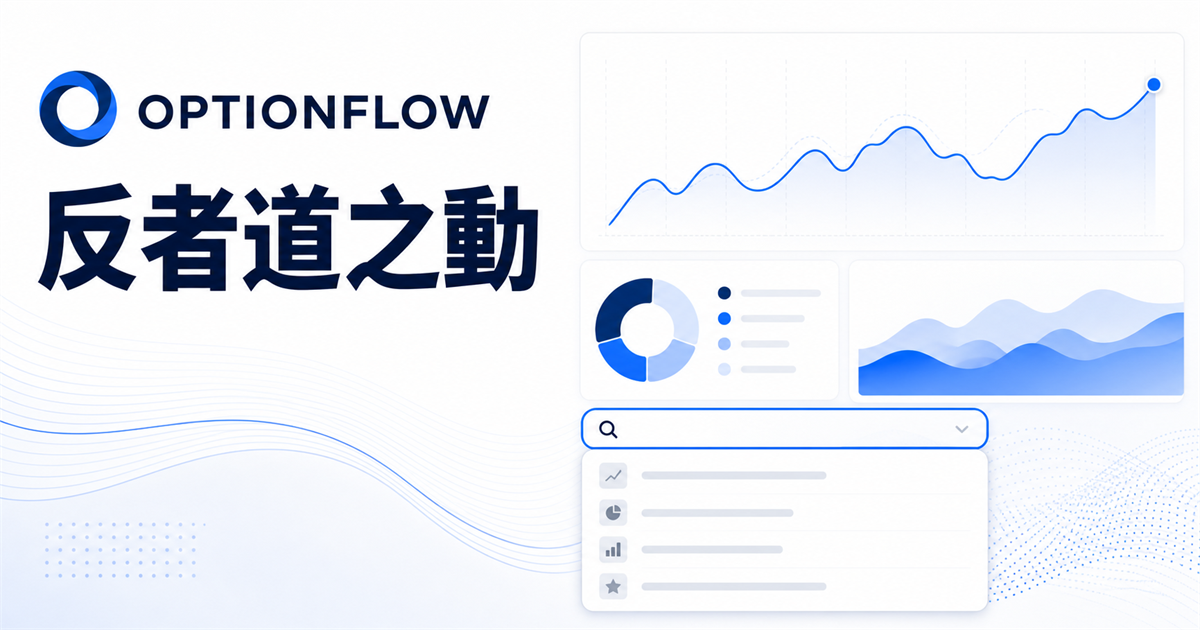
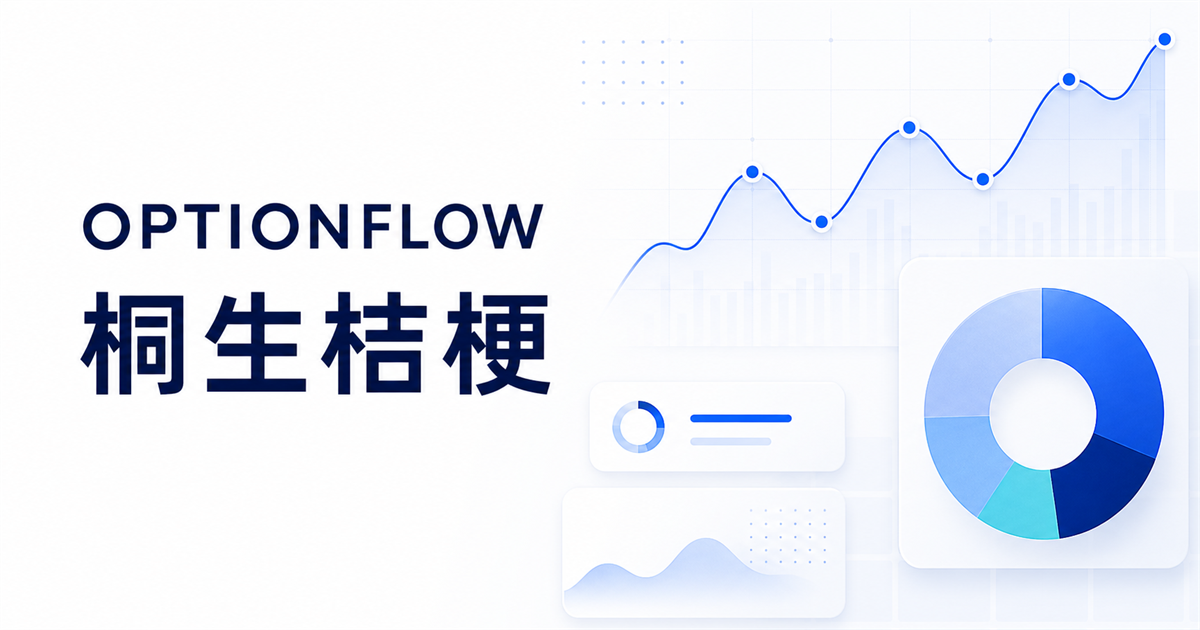
Add graphical holdings view and Kikyo branding

diff --git a/app/globals.css b/app/globals.css
@@ -16,7 +16,7 @@
 
 * { box-sizing: border-box; }
 html { scroll-behavior: smooth; }
-body { margin: 0; color: var(--ink); background: var(--canvas); font-family: Inter, ui-sans-serif, system-ui, -apple-system, BlinkMacSystemFont, "Segoe UI", sans-serif; }
+body { margin: 0; color: var(--ink); background: var(--canvas); font-family: Helvetica, "Helvetica Neue", Arial, sans-serif; }
 button, input, select, textarea { font: inherit; }
 button, a { -webkit-tap-highlight-color: transparent; }
 button:focus-visible, a:focus-visible, input:focus-visible, select:focus-visible, textarea:focus-visible { outline: 3px solid rgba(47,115,237,.22); outline-offset: 2px; }
@@ -70,6 +70,11 @@ button:focus-visible, a:focus-visible, input:focus-visible, select:focus-visible
 
 .positions-panel { padding: 0; overflow: hidden; }.positions-panel h2 { font-size: 22px; }.positions-toolbar { display: flex; justify-content: space-between; align-items: center; gap: 20px; padding: 27px 28px 20px; }.toolbar-actions { display: flex; align-items: center; gap: 10px; }.search { width: min(390px, 34vw); min-height: 43px; display: flex; align-items: center; gap: 9px; background: #f8fafc; border: 1px solid #dfe6f0; border-radius: 11px; padding: 0 13px; color: #8a98ac; }.search input { width: 100%; border: 0; outline: 0; background: transparent; color: var(--ink); padding: 11px 0; font-size: 13px; }.search input::placeholder { color: #9ca9bb; }
 .filter-row { display: flex; gap: 6px; padding: 0 28px 17px; overflow-x: auto; }.filter-row button { display: inline-flex; align-items: center; gap: 8px; white-space: nowrap; color: #71809a; background: transparent; border-radius: 9px; padding: 9px 12px; font-size: 12px; font-weight: 750; }.filter-row button span { min-width: 21px; padding: 3px 6px; border-radius: 999px; background: #eef1f5; color: #7d8ba0; font-size: 10px; }.filter-row button.active { color: #235fc8; background: var(--blue-soft); }.filter-row button.active span { background: #dce9ff; color: #235fc8; }
+.view-switch { flex: 0 0 auto; display: flex; padding: 4px; background: #f1f4f8; border-radius: 10px; }.view-switch button { min-height: 34px; padding: 0 11px; color: #71809a; background: transparent; border: 0; border-radius: 8px; cursor: pointer; font-size: 11px; font-weight: 800; }.view-switch button.active { color: #205fc9; background: white; box-shadow: 0 3px 10px rgba(20,45,82,.1); }
+.visual-positions { overflow-x: auto; border-top: 1px solid var(--line); background: white; scrollbar-color: #b5c0cf #f3f5f8; }.visual-head, .visual-position-row { min-width: 1180px; display: grid; grid-template-columns: 45px minmax(230px, 1.45fr) minmax(150px, .85fr) minmax(225px, 1.15fr) minmax(165px, .9fr) minmax(150px, .8fr) 38px; align-items: center; column-gap: 18px; }.visual-head { min-height: 44px; padding: 0 25px; color: #8090a8; background: #f7f9fd; border-bottom: 1px solid #e9edf4; font-size: 9px; font-weight: 850; letter-spacing: .09em; text-transform: uppercase; }.visual-position-row { min-height: 112px; margin: 0; padding: 17px 25px; border-bottom: 1px solid #e8edf4; background: white; transition: background .18s ease, transform .18s ease; }.visual-position-row:hover { background: linear-gradient(90deg, #fff, #f8fbff); }.visual-position-row:last-child { border-bottom: 0; }.visual-empty { min-height: 140px; display: grid; place-items: center; color: #8594aa; font-size: 13px; }
+.position-rank { color: #9aa7b9; font-size: 11px; font-weight: 850; }.visual-asset { min-width: 0; display: flex; align-items: center; gap: 14px; }.visual-logo { width: 55px; height: 55px; flex: 0 0 auto; display: grid; place-items: center; color: white; border-radius: 15px; font-size: 15px; font-weight: 900; letter-spacing: .03em; box-shadow: 0 9px 22px rgba(21,47,88,.17); }.visual-asset > div { min-width: 0; }.visual-asset strong, .visual-asset span, .visual-asset small { display: block; overflow: hidden; text-overflow: ellipsis; white-space: nowrap; }.visual-asset strong { color: #17243d; font-size: 16px; letter-spacing: .01em; }.visual-asset span { margin-top: 4px; color: #7e8da3; font-size: 12px; }.visual-asset small { margin-top: 5px; color: #a0acbd; font-size: 9px; }
+.visual-value > span, .visual-price-flow span, .visual-weight span { display: block; margin-bottom: 6px; color: #8a98ad; font-size: 9px; font-weight: 750; letter-spacing: .02em; }.visual-value strong { color: #22314a; font-size: 16px; letter-spacing: -.02em; }.visual-price-flow { display: grid; grid-template-columns: 1fr auto 1fr; align-items: center; gap: 10px; padding: 11px 12px; background: #f8faff; border: 1px solid #e4eaf3; border-radius: 12px; }.visual-price-flow div { min-width: 0; }.visual-price-flow i { color: #9aa8ba; font-style: normal; }.visual-price-flow strong { display: block; overflow: hidden; text-overflow: ellipsis; color: #263650; font-size: 12px; white-space: nowrap; }.visual-price-flow div:last-child strong { color: #1e61ce; }
+.visual-gain strong, .visual-gain span { display: block; }.visual-gain strong { font-size: 16px; letter-spacing: -.02em; }.visual-gain span { margin-top: 6px; font-size: 11px; font-weight: 850; }.visual-weight > div { display: flex; justify-content: space-between; align-items: center; gap: 9px; }.visual-weight > div strong { color: #25354f; font-size: 13px; }.visual-weight b { height: 5px; display: block; overflow: hidden; background: #e8edf3; border-radius: 99px; }.visual-weight b i { height: 100%; display: block; background: linear-gradient(90deg, #5a87c8, #2f73ed); border-radius: inherit; }.visual-action { width: 36px; height: 36px; display: grid; place-items: center; color: #6880a2; background: transparent; border: 0; border-radius: 9px; cursor: pointer; letter-spacing: 1px; }.visual-action:hover { color: var(--blue); background: #eaf2ff; }
 .table-wrap { overflow-x: auto; border-top: 1px solid var(--line); scrollbar-color: #b5c0cf #f3f5f8; } table { width: 100%; min-width: 1380px; border-collapse: collapse; } th { padding: 14px 17px; color: #7185a4; background: #f8faff; font-size: 10.5px; letter-spacing: .09em; text-transform: uppercase; text-align: left; white-space: nowrap; } td { padding: 17px; color: #4e607d; border-top: 1px solid #edf0f5; font-size: 13px; white-space: nowrap; } tbody tr { transition: background .16s ease; } tbody tr:hover { background: #fbfdff; } td:first-child { color: #17243d; }.symbol-cell { display: inline-flex; align-items: center; gap: 11px; }.symbol-cell > strong, td strong { font-size: 13px; }.symbol { width: 39px; height: 39px; display: grid; place-items: center; flex: 0 0 auto; border-radius: 11px; background: #eaf2ff; color: #2866d0; font-weight: 900; }.strategy-name, td:nth-child(3) > strong { display: block; color: #263751; }.subtle { display: block; margin-top: 4px; color: #94a0b2; font-size: 11px; }
 .price-button { display: inline-flex; align-items: center; gap: 8px; color: #1e3151; background: white; border: 1px solid #dce4ef; border-radius: 9px; padding: 9px 11px; font-size: 12px; font-weight: 750; }.price-button:hover { border-color: #98b9ed; background: #f7faff; }.price-button i { color: #8090aa; font-style: normal; }.live-dot, .manual-dot { display: inline-block; width: 7px; height: 7px; border-radius: 50%; background: #2cc398; }.manual-dot { background: #a6b0be; }
 .inline-price { display: inline-flex; align-items: center; border: 1px solid var(--blue); border-radius: 8px; overflow: hidden; background: white; color: #60708a; }.inline-price > span { padding-left: 8px; }.inline-price input { width: 72px; border: 0; outline: 0; padding: 7px 3px; color: #14213a; }.inline-price button { border: 0; background: var(--blue); color: white; align-self: stretch; padding: 0 9px; cursor: pointer; }
@@ -95,6 +100,7 @@ button:focus-visible, a:focus-visible, input:focus-visible, select:focus-visible
   .metric-grid { grid-template-columns: repeat(2, 1fr); }.content-grid { flex-direction: column; gap: 14px; }.return-panel { flex-basis: auto; }.panel-resizer { display: none; }.allocation-content { grid-template-columns: 260px minmax(220px, 1fr); }.donut { width: 230px; }
 }
 @media (max-width: 980px) {
+  .positions-toolbar { flex-wrap: wrap; }.toolbar-actions { width: 100%; }.search { flex: 1; }
   .editor-layout { grid-template-columns: 1fr; }.editor-summary { border-left: 0; border-top: 1px solid #e1e8f2; }.summary-sticky { position: static; display: grid; grid-template-columns: repeat(2, minmax(0, 1fr)); gap: 12px; }.summary-sticky > .eyebrow, .summary-sticky > h3, .summary-tip { grid-column: 1 / -1; }.summary-symbol, .summary-price-pair, .summary-result, .editor-summary dl { margin: 0; }.editor-summary dl { padding: 0; }
 }
 @media (max-width: 720px) {
@@ -103,7 +109,8 @@ button:focus-visible, a:focus-visible, input:focus-visible, select:focus-visible
   .metric-grid { grid-template-columns: 1fr; }.metric-card { min-height: 123px; }.panel { padding: 18px; }.panel-heading { align-items: center; }
   .benchmark-legend { width: 100%; margin: 6px 0 0; }.return-summary { flex-wrap: wrap; }.chart-shell { height: 230px; margin-left: 42px; }.chart-dates { padding-left: 42px; }.hide-small-label { display: none; }
   .allocation-content { grid-template-columns: 1fr; }.donut { width: min(220px, 76vw); }.legend { max-width: 320px; width: 100%; margin: auto; }
-  .positions-toolbar { align-items: end; padding: 20px 17px 14px; }.positions-toolbar .primary-button { display: none; }.toolbar-actions { width: 56%; }.search { width: 100%; }.filter-row { padding: 0 17px 13px; }.table-footer { align-items: start; flex-wrap: wrap; padding: 12px 17px; }.table-footer p { width: 100%; margin: 0; text-align: left; }
+  .positions-toolbar { display: block; padding: 20px 17px 14px; }.positions-toolbar .primary-button { display: none; }.toolbar-actions { width: 100%; margin-top: 15px; flex-wrap: wrap; }.view-switch { width: 100%; }.view-switch button { flex: 1; }.search { width: 100%; }.filter-row { padding: 0 17px 13px; }.table-footer { align-items: start; flex-wrap: wrap; padding: 12px 17px; }.table-footer p { width: 100%; margin: 0; text-align: left; }
+  .visual-positions { overflow: visible; padding: 12px; background: #f7f9fc; }.visual-head { display: none; }.visual-position-row { min-width: 0; min-height: 0; grid-template-columns: 38px minmax(0, 1fr) auto; grid-template-areas: "rank asset action" ". value gain" ". prices prices" ". weight weight"; column-gap: 11px; row-gap: 15px; margin-bottom: 11px; padding: 16px; background: white; border: 1px solid #e2e8f1; border-radius: 15px; box-shadow: 0 8px 22px rgba(18,45,85,.045); }.visual-position-row:last-child { margin-bottom: 0; border-bottom: 1px solid #e2e8f1; }.position-rank { grid-area: rank; }.visual-asset { grid-area: asset; }.visual-logo { width: 48px; height: 48px; border-radius: 13px; }.visual-value { grid-area: value; }.visual-price-flow { grid-area: prices; }.visual-gain { grid-area: gain; text-align: right; }.visual-weight { grid-area: weight; }.visual-action { grid-area: action; }.visual-value strong, .visual-gain strong { font-size: 14px; }
   .modal-backdrop { padding: 0; place-items: end center; }.trade-modal { border-radius: 20px 20px 0 0; max-height: 94vh; }.trade-modal > header { padding: 18px 19px 15px; }.trade-modal h2 { font-size: 21px; }.editor-fields { padding: 21px 18px 6px; }.trade-type-picker { grid-template-columns: repeat(2, 1fr); }.form-grid, .date-fields, .price-fields { grid-template-columns: repeat(2, minmax(0, 1fr)); }.editor-summary { padding: 22px 18px; }.summary-sticky { display: block; }.summary-symbol, .summary-price-pair, .summary-result, .editor-summary dl { margin-bottom: 12px; }.editor-actions { padding: 12px 16px; }.editor-actions p { display: none; }
 }
 @media (max-width: 460px) {

diff --git a/app/page.tsx b/app/page.tsx
@@ -2,7 +2,6 @@
 
 import type { ChangeEvent, CSSProperties } from 'react';
 import { FormEvent, useCallback, useEffect, useMemo, useRef, useState } from 'react';
-import Image from 'next/image';
 
 type Trade = {
   id: number;
@@ -26,9 +25,15 @@ type Trade = {
 
 type RangeMode = 'week' | 'month' | 'year';
 type FilterMode = 'all' | 'open' | 'closed' | 'options' | 'stock';
+type PositionViewMode = 'visual' | 'details';
 type SymbolSuggestion = { symbol: string; name: string; exchange: string; type: string };
 
 const palette = ['#2f73ed', '#3cc7df', '#7768e8', '#22b58b', '#f0a33a', '#e66878'];
+const companyNames: Record<string, string> = {
+  AAPL: 'Apple', AMZN: 'Amazon', BOXX: 'Alpha Architect', GOOGL: 'Alphabet', KO: 'Coca-Cola',
+  META: 'Meta Platforms', MSFT: 'Microsoft', NVDA: 'NVIDIA', SPGI: 'S&P Global', SPY: 'SPDR S&P 500',
+  TRV: 'The Travelers Companies', TSLA: 'Tesla', TTWO: 'Take-Two Interactive', V: 'Visa',
+};
 const panelRatioKey = 'optionflow-analytics-panel-ratio';
 const backgroundImageKey = 'optionflow-custom-background';
 const clampPanelRatio = (value: number) => Math.min(72, Math.max(46, value));
@@ -117,6 +122,7 @@ export default function Home() {
   const [refreshing, setRefreshing] = useState(false);
   const [rangeMode, setRangeMode] = useState<RangeMode>('month');
   const [filter, setFilter] = useState<FilterMode>('all');
+  const [positionView, setPositionView] = useState<PositionViewMode>('visual');
   const [query, setQuery] = useState('');
   const [activeSection, setActiveSection] = useState<'overview' | 'positions' | 'returns'>('overview');
   const [editor, setEditor] = useState<Trade | null>(null);
@@ -362,6 +368,49 @@ export default function Home() {
     return matchesQuery && matchesFilter;
   }), [enriched, filter, query]);
 
+  const visualPositions = useMemo(() => {
+    const groups = new Map<string, {
+      ticker: string;
+      items: typeof filteredTrades;
+      marketValue: number;
+      pnl: number;
+      capital: number;
+      entryWeighted: number;
+      currentWeighted: number;
+      priceWeight: number;
+      strategies: Set<string>;
+    }>();
+    for (const item of filteredTrades) {
+      const ticker = item.trade.ticker || 'OTHER';
+      const group = groups.get(ticker) ?? {
+        ticker, items: [], marketValue: 0, pnl: 0, capital: 0, entryWeighted: 0,
+        currentWeighted: 0, priceWeight: 0, strategies: new Set<string>(),
+      };
+      const units = Math.max(.0001, Math.abs(item.trade.quantity));
+      const multiplier = item.trade.type === 'SDI' || item.trade.event === 'STOCK' ? 1 : 100;
+      group.items.push(item);
+      group.marketValue += item.marketValue;
+      group.pnl += item.pnl;
+      group.capital += item.trade.collateral || Math.abs(item.trade.entryPrice * item.trade.quantity * multiplier);
+      group.entryWeighted += item.trade.entryPrice * units;
+      group.currentWeighted += (item.trade.currentPrice ?? item.trade.entryPrice) * units;
+      group.priceWeight += units;
+      group.strategies.add(item.trade.event);
+      groups.set(ticker, group);
+    }
+    const grouped = [...groups.values()].sort((a, b) => b.marketValue - a.marketValue);
+    const total = grouped.reduce((sum, item) => sum + Math.max(0, item.marketValue), 0) || 1;
+    return grouped.map((group) => ({
+      ...group,
+      company: companyNames[group.ticker] ?? '美股／ETF 持倉',
+      entryPrice: group.entryWeighted / group.priceWeight,
+      currentPrice: group.currentWeighted / group.priceWeight,
+      roc: group.capital > 0 ? group.pnl / group.capital : 0,
+      share: Math.max(0, group.marketValue) / total,
+      strategy: [...group.strategies].slice(0, 2).join(' · '),
+    }));
+  }, [filteredTrades]);
+
   async function persistTrade(trade: Trade, method: 'POST' | 'PUT') {
     const response = await fetch('/api/trades', { method, headers: { 'Content-Type': 'application/json' }, body: JSON.stringify(trade) });
     const payload = await response.json() as { trade?: Trade; error?: string };
@@ -410,7 +459,11 @@ export default function Home() {
   return (
     <main className={`shell ${backgroundImage ? 'has-custom-background' : ''}`} id="top" style={shellStyle}>
       <header className="topbar">
-        <a className="brand" href="#top" aria-label="OptionFlow 首頁"><Image className="brand-logo" src="/optionflow-logo.jpg" alt="" width={40} height={40} priority /><span>OPTIONFLOW</span></a>
+        <a className="brand" href="#top" aria-label="OptionFlow 首頁">
+          {/* eslint-disable-next-line @next/next/no-img-element */}
+          <img className="brand-logo" src="/optionflow-logo.jpg" alt="" width="40" height="40" />
+          <span>OPTIONFLOW</span>
+        </a>
         <div className="header-actions">
           <span className={`market-pill ${marketOpen ? 'is-open' : ''}`}><span />{marketOpen ? '美股交易中' : '非交易時段'}</span>
           <button className="secondary-button" type="button" onClick={() => refreshQuotes()} disabled={refreshing}>{refreshing ? '更新中…' : '↻ 更新報價'}</button>
@@ -429,7 +482,7 @@ export default function Home() {
         </nav>
         <div className="dashboard">
         <section className="hero" id="overview">
-          <div><p className="eyebrow">Portfolio command center</p><h1>反者<span>道之動</span></h1><p className="hero-copy">原始 Excel 欄位與計算邏輯已完整轉換。持倉可編輯、資料會保存，股票報價每 60 秒取得最新可用價格。</p></div>
+          <div><p className="eyebrow">Portfolio command center</p><h1>桐生<span>桔梗</span></h1><p className="hero-copy">原始 Excel 欄位與計算邏輯已完整轉換。持倉可編輯、資料會保存，股票報價每 60 秒取得最新可用價格。</p></div>
           <div className="as-of"><span>美東報價時間</span><strong>{lastQuoteAt ? new Intl.DateTimeFormat('zh-TW', { timeZone: 'America/New_York', hour: '2-digit', minute: '2-digit', second: '2-digit', hour12: false, timeZoneName: 'short' }).format(new Date(lastQuoteAt)) : '等待首次更新'}</strong></div>
         </section>
 
@@ -503,10 +556,26 @@ export default function Home() {
         <section className="panel positions-panel" id="positions">
           <div className="positions-toolbar">
             <div><p className="eyebrow">Active book</p><h2>交易與持倉</h2></div>
-            <div className="toolbar-actions"><label className="search"><span>⌕</span><input value={query} onChange={(event) => setQuery(event.target.value)} placeholder="搜尋 ticker、策略或備註" aria-label="搜尋交易" /></label><button className="primary-button" onClick={() => setEditor(blankTrade())}>＋新增</button></div>
+            <div className="toolbar-actions"><div className="view-switch" aria-label="持倉顯示方式"><button className={positionView === 'visual' ? 'active' : ''} onClick={() => setPositionView('visual')}>圖形持倉</button><button className={positionView === 'details' ? 'active' : ''} onClick={() => setPositionView('details')}>交易明細</button></div><label className="search"><span>⌕</span><input value={query} onChange={(event) => setQuery(event.target.value)} placeholder="搜尋 ticker、策略或備註" aria-label="搜尋交易" /></label><button className="primary-button" onClick={() => setEditor(blankTrade())}>＋新增</button></div>
           </div>
           <div className="filter-row">{([['all', '全部'], ['open', '未平倉'], ['closed', '已平倉'], ['options', '選擇權'], ['stock', '股票']] as const).map(([mode, label]) => <button key={mode} className={filter === mode ? 'active' : ''} onClick={() => setFilter(mode)}>{label}<span>{mode === 'all' ? trades.length : mode === 'open' ? openTrades.length : mode === 'closed' ? closedTrades.length : trades.filter((trade) => mode === 'stock' ? trade.type === 'SDI' : trade.type !== 'SDI').length}</span></button>)}</div>
-          <div className="table-wrap">
+          {positionView === 'visual' ? <div className="visual-positions">
+            <div className="visual-head"><span>#</span><span>標的／公司</span><span>持倉市值</span><span>買入價 → 現價</span><span>損益／報酬率</span><span>組合占比</span><span /></div>
+            {!loading && !visualPositions.length && <div className="visual-empty">沒有符合目前篩選條件的持倉。</div>}
+            {loading && <div className="visual-empty">正在整理圖形化持倉…</div>}
+            {!loading && visualPositions.map((position, index) => <article className="visual-position-row" key={position.ticker}>
+              <span className="position-rank">{String(index + 1).padStart(2, '0')}</span>
+              <div className="visual-asset"><span className="visual-logo" style={{ background: `linear-gradient(145deg, ${palette[index % palette.length]}, #132c57)` }}>{position.ticker.slice(0, 2)}</span><div><strong>{position.ticker}</strong><span>{position.company}</span><small>{position.items.length} 筆 · {position.strategy}</small></div></div>
+              <div className="visual-value"><span>持倉市值</span><strong>{money.format(position.marketValue)}</strong></div>
+              <div className="visual-price-flow"><div><span>買入／成交</span><strong>{money.format(position.entryPrice)}</strong></div><i>→</i><div><span>目前價格</span><strong>{money.format(position.currentPrice)}</strong></div></div>
+              <div className={`visual-gain ${position.pnl >= 0 ? 'positive' : 'negative'}`}><strong>{position.pnl >= 0 ? '+' : ''}{money.format(position.pnl)}</strong><span>{position.roc >= 0 ? '▲' : '▼'} {percent.format(Math.abs(position.roc))}</span></div>
+              <div className="visual-weight"><div><span>組合占比</span><strong>{percent.format(position.share)}</strong></div><b><i style={{ width: `${Math.max(2, Math.min(100, position.share * 100))}%` }} /></b></div>
+              <button className="visual-action" onClick={() => {
+                if (position.items.length === 1) setEditor({ ...position.items[0].trade });
+                else { setQuery(position.ticker); setPositionView('details'); }
+              }} aria-label={`查看 ${position.ticker} 明細`}>•••</button>
+            </article>)}
+          </div> : <div className="table-wrap">
             <table>
               <thead><tr><th>標的</th><th>交易／策略</th><th>開倉／到期</th><th>履約價</th><th>數量</th><th>買入／成交價</th><th>目前價格</th><th>損益</th><th>ROC</th><th>狀態</th><th /></tr></thead>
               <tbody>
@@ -525,7 +594,7 @@ export default function Home() {
                 </tr>)}
               </tbody>
             </table>
-          </div>
+          </div>}
           <footer className="table-footer"><span><i className="live-dot" />股票自動報價</span><span><i className="manual-dot" />手動價格</span><p>選擇權工作簿沒有 OCC 合約代碼，因此權利金保留手動更新；股票報價可能依來源或交易所延遲。</p></footer>
         </section>
         </div>

diff --git a/app/layout.tsx b/app/layout.tsx
@@ -16,7 +16,7 @@ export async function generateMetadata(): Promise<Metadata> {
     title,
     description,
     icons: { icon: '/optionflow-logo.jpg', apple: '/optionflow-logo.jpg' },
-    openGraph: { title, description, type: 'website', images: [{ url: image, width: 1200, height: 630, alt: 'OPTIONFLOW — 反者道之動' }] },
+    openGraph: { title, description, type: 'website', images: [{ url: image, width: 1200, height: 630, alt: 'OPTIONFLOW — 桐生桔梗' }] },
     twitter: { card: 'summary_large_image', title, description, images: [image] },
   };
 }
